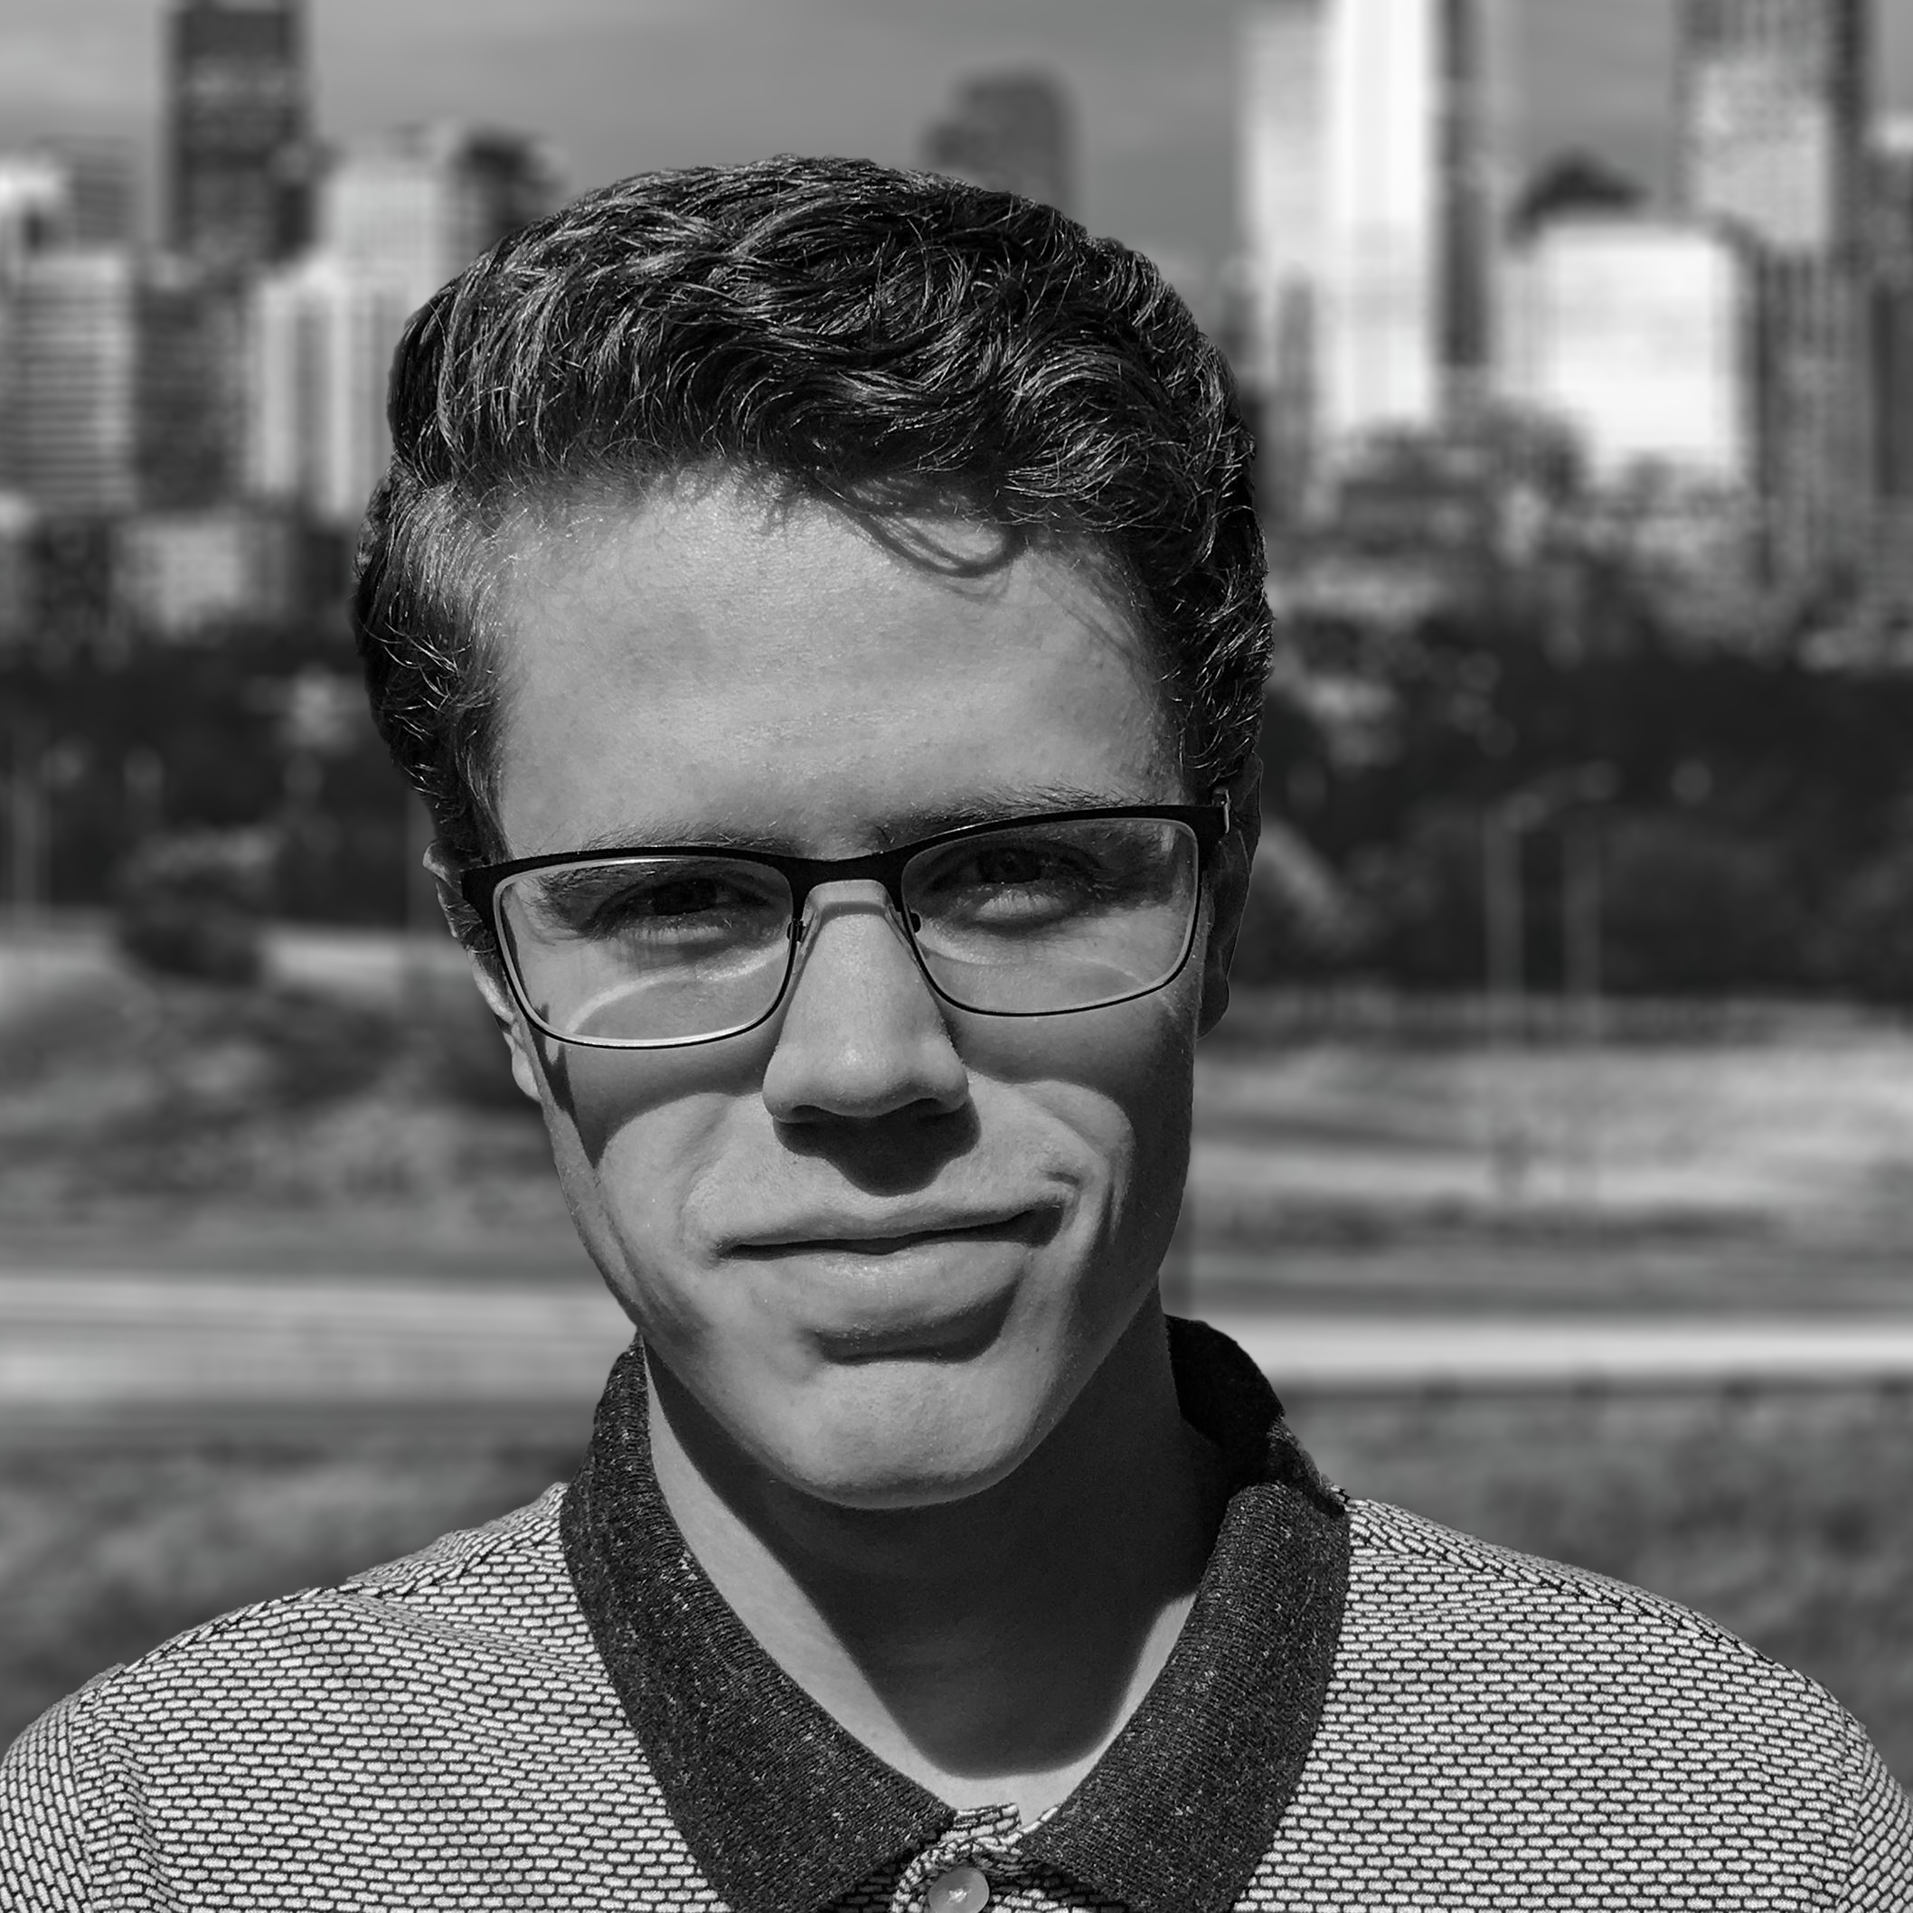
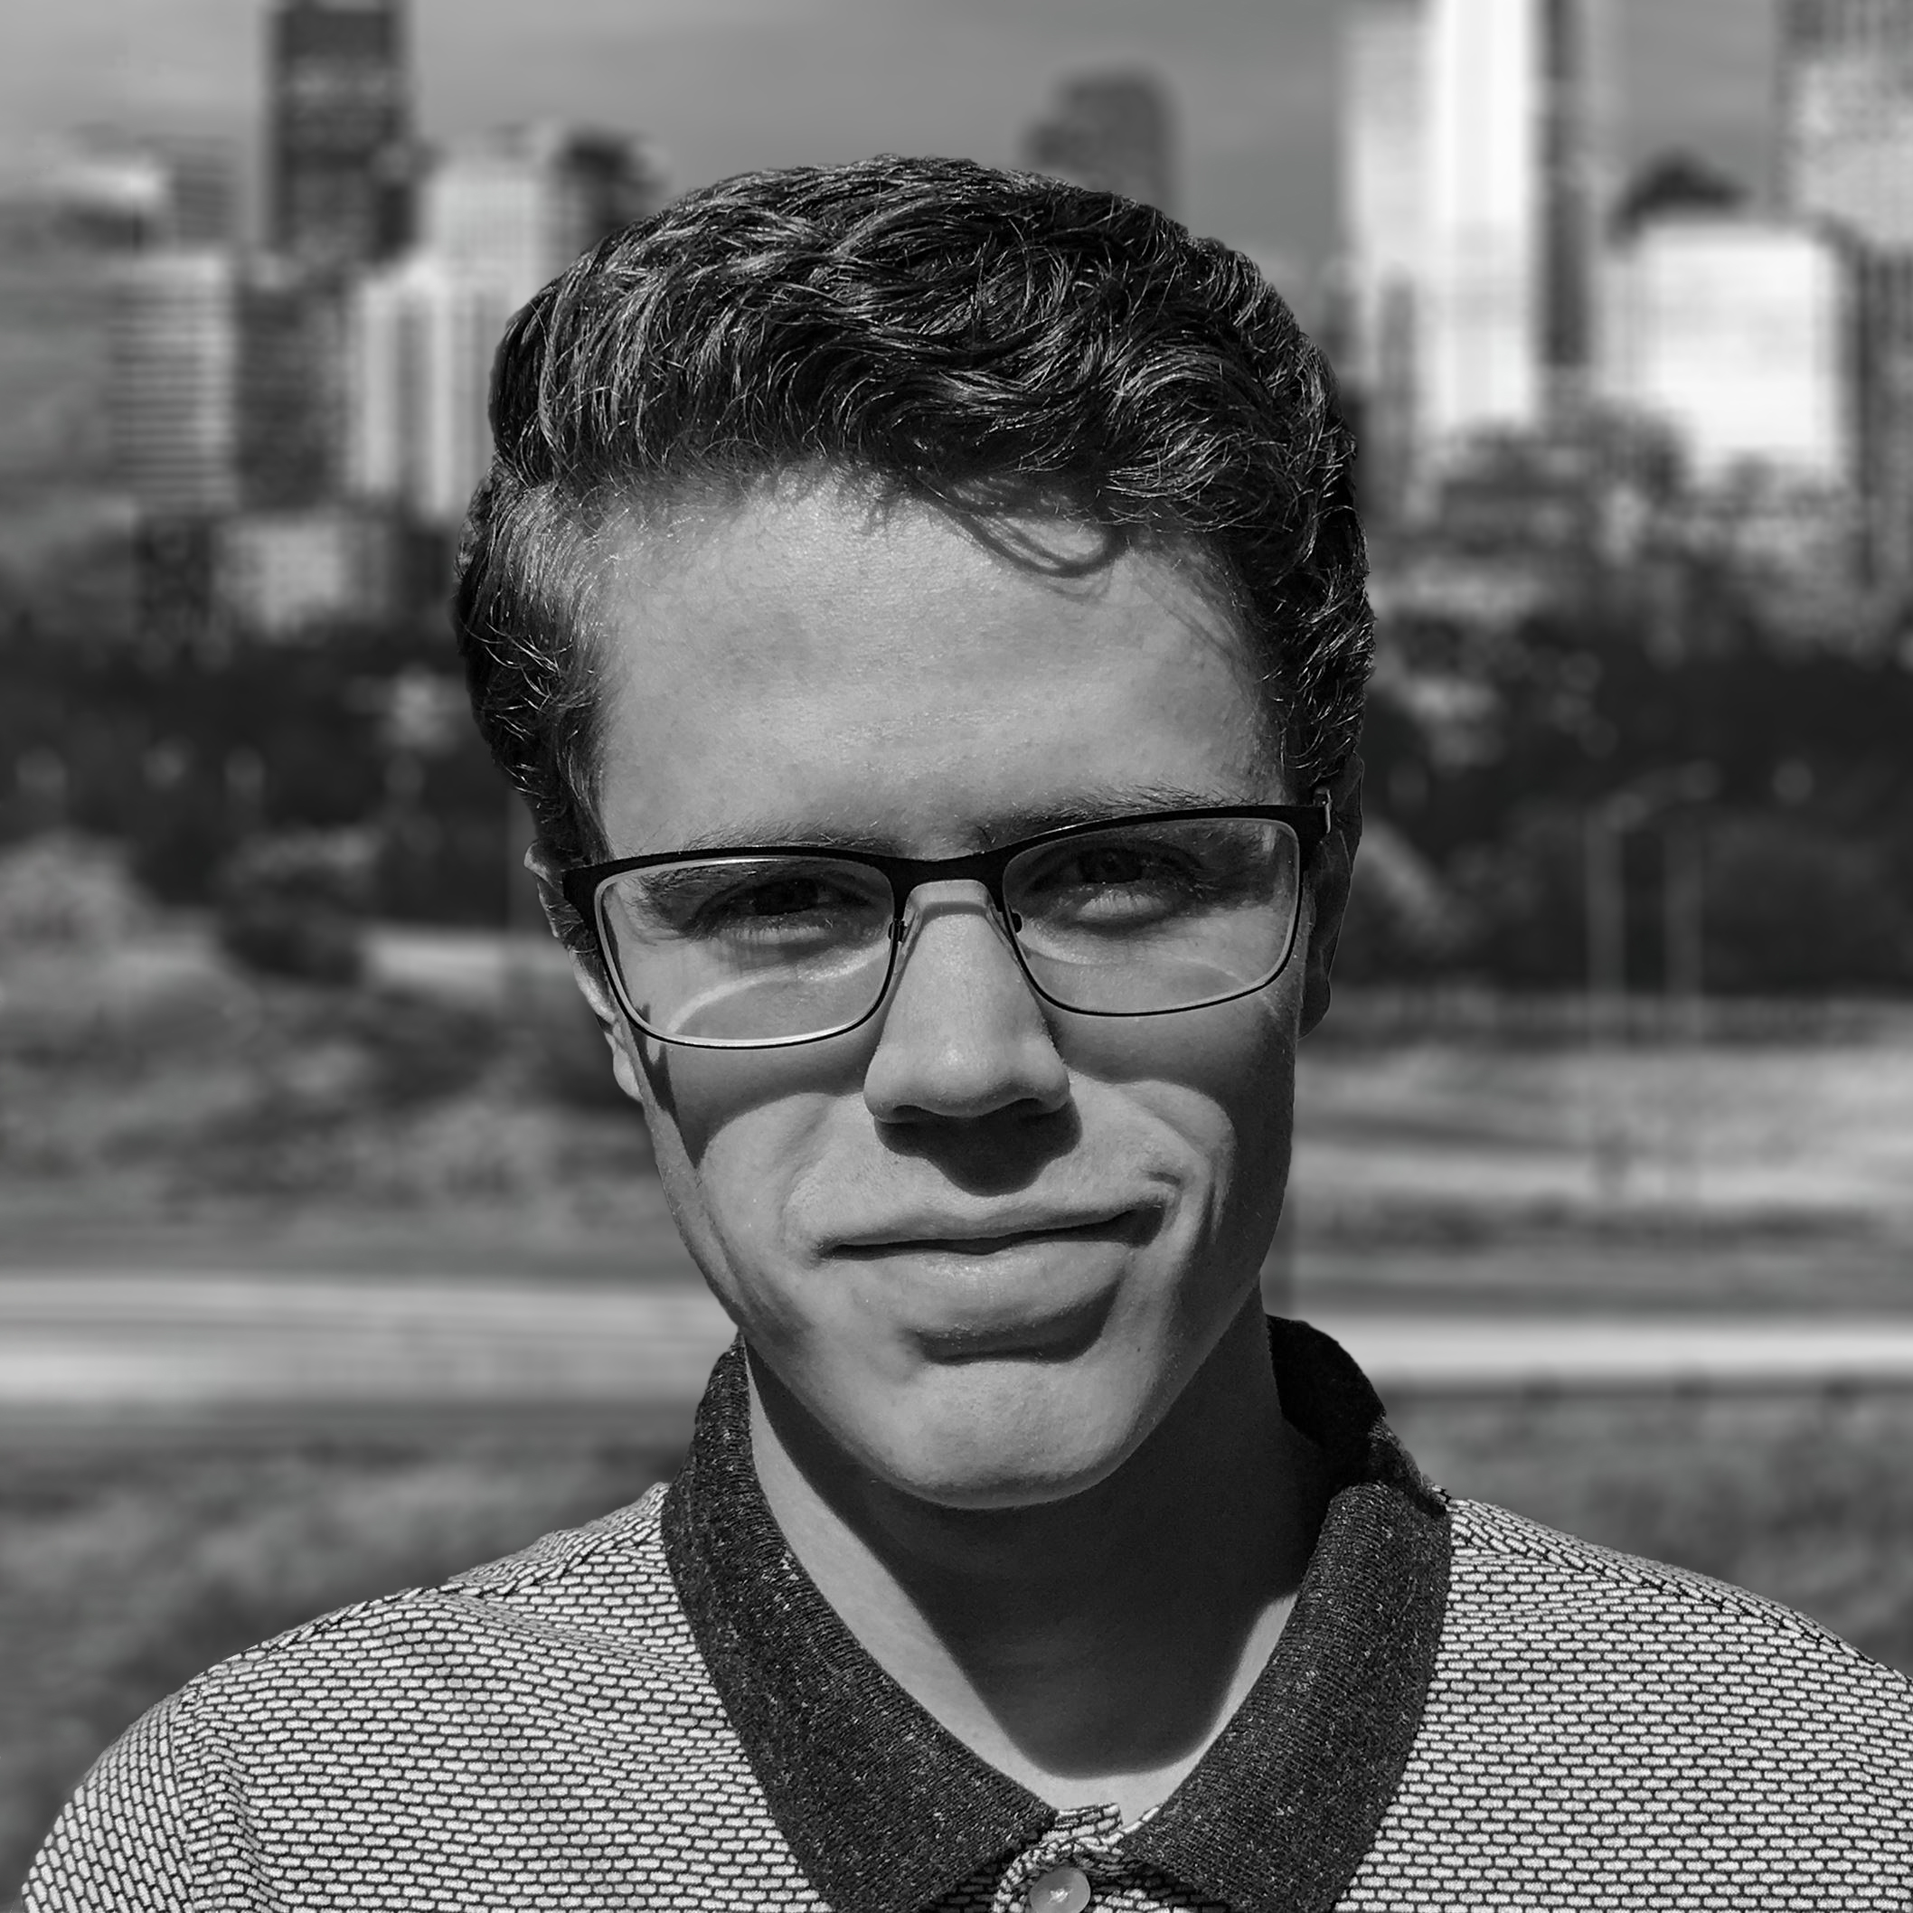
commit

diff --git a/src/App.js b/src/App.js
@@ -3,7 +3,9 @@ import "./App.css";
 import { useParams } from "react-router-dom";
 import { SvgIcon } from "@mui/material";
 import LinearProgress from "@mui/material/LinearProgress";
+import WorkHistoryIcon from "@mui/icons-material/WorkHistory";
 import EmailIcon from "@mui/icons-material/Email";
+import WebAssetIcon from "@mui/icons-material/WebAsset";
 import PhoneIcon from "@mui/icons-material/Phone";
 import WebIcon from "@mui/icons-material/Web";
 import VideoAppIcon from "./img/videoapp.png";
@@ -22,6 +24,7 @@ import PhotoshopIcon from "./img/ps.png";
 import AfterEffectsIcon from "./img/ae.png";
 import C4DIcon from "./img/c4d.png";
 import ZBrushIcon from "./img/zb.png";
+import GithubIcon from "./img/github.png";
 import MarvelousDesignerIcon from "./img/md.jpg";
 import ExcelIcon from "./img/excel.png";
 import SAPIcon from "./img/sap.png";
@@ -31,7 +34,6 @@ import PurdueIcon from "./img/purdue.png";
 import Button from "@mui/material/Button";
 import { styled } from "@mui/material/styles";
 import Popover from "@mui/material/Popover";
-
 const ColorButton = styled(Button)(() => ({
   color: "black",
   padding: ".5vh 2vh !important",
@@ -64,7 +66,21 @@ const links = [
     secure: true,
   },
   {
-    name: "graphic portfolio",
+    name: "JSON CV",
+    href: "https://registry.jsonresume.org/pcdependency",
+    icon: WorkHistoryIcon,
+    popover: "JSON version is available on my GitHub",
+    secure: true,
+  },
+  {
+    name: "github",
+    href: "https://registry.jsonresume.org/pcdependency",
+    img: GithubIcon,
+    popover: "My GitHub",
+    secure: true,
+  },
+  {
+    name: "Graphics",
     href: "https://forgottendesigns.netlify.app/",
     img: ForgottenIcon,
     popover:
@@ -74,12 +90,12 @@ const links = [
   {
     name: "3D app",
     href: "https://forgottencity.netlify.app/",
-    icon: WebIcon,
+    icon: WebAssetIcon,
     popover: "Fully 3D Interactive Three.js Website",
     secure: false,
   },
   {
-    name: "fullStack app",
+    name: "Full-stack",
     href: "https://videostreamapplication.herokuapp.com/",
     img: VideoAppIcon,
     popover:
@@ -87,7 +103,7 @@ const links = [
     secure: false,
   },
   {
-    name: "complex frontend",
+    name: "Front-end",
     href: "",
     icon: WebIcon,
     popover: "Currently Down: Completely unique custom website interface",
@@ -142,7 +158,7 @@ const information = [
   },
   {
     name: "phone",
-    info: "303-881-2282",
+    info: "(303) 881-2282",
   },
   {
     name: "email",

diff --git a/src/App.css b/src/App.css
@@ -103,7 +103,7 @@ div {
     "exp info"
     "exp skills"
     "exp skills";
-  grid-template-rows: 1fr 2fr 2fr 3fr 4fr 5fr 5fr;
+  grid-template-rows: 1fr 2fr 1.7fr 3fr 4fr 5fr 5fr;
   grid-template-columns: 7fr 4fr;
 }
 
@@ -148,9 +148,9 @@ div {
   grid-area: links;
   display: grid;
   grid-auto-flow: column;
+  grid-auto-columns: minmax(0, 1fr);
   gap: 1vh;
   padding: 0 2vh !important;
-  grid-template-columns: 1fr 1fr 1fr 1fr 1fr 1fr 1fr;
   margin-bottom: 1vh !important;
 }
 
@@ -162,13 +162,13 @@ div {
   align-items: center;
   flex-direction: column;
   text-align: center;
-  padding: 0.5vh !important;
   cursor: pointer;
   text-decoration: none;
+  padding: 0.5vh !important;
 }
 
 .linkContainer > p {
-  font-size: 1.5vh;
+  font-size: 1vh;
 }
 
 .linkContainer > p::first-letter {
@@ -212,7 +212,7 @@ div {
   height: 100%;
   width: 100%;
   object-fit: cover;
-  transform: scale(1.1) translateX(5px);
+  transform: scale(1);
 }
 
 .bioContainer > p {
